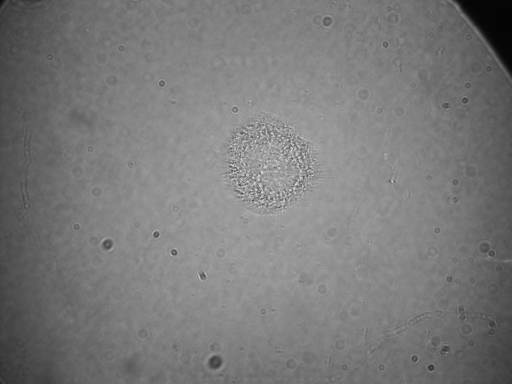
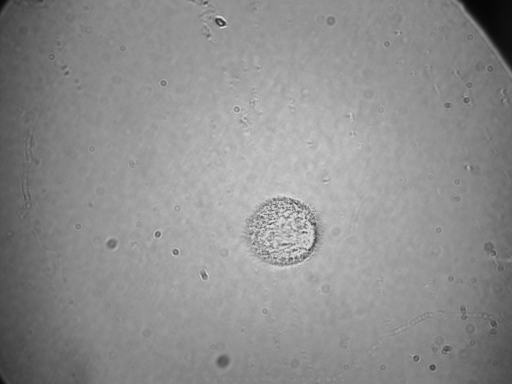
finder works!

diff --git a/CEControl.py b/CEControl.py
@@ -955,7 +955,7 @@ class SequenceScreenController:
 class RunScreenController:
     _stop = threading.Event()
     _update_delay = 0.125
-    _pixel2um = 1
+    _pixel2um = 0.48
     _calibrating_ratio = False
     _setting_laser = False
     _first_calibration_point = None
@@ -1591,6 +1591,13 @@ class RunScreenController:
             attempts += 1
 
     def find_cell(self):
+        def adjust_laser(cell_n):
+            x1 = cell_n[0] - self._laser_position[0]
+            y1 = cell_n[1] - self._laser_position[1]
+            x2 = cell_n[2] - self._laser_position[0]
+            y2 = cell_n[3] - self._laser_position[1]
+            return [x1, y1, x2, y2]
+
         # if not self.hardware.hasCameraControl or not self.hardware.hasXYControl:
         #     return None
         # else:
@@ -1621,18 +1628,21 @@ class RunScreenController:
 
             cell_boxes, score = cell_data  # cell_boxes are in format [xmin, ymin, xmax, ymax]
 
+            adjusted_cell_boxes = []
             if self._laser_position is not None:
-                cell_boxes[:, 0:2] -= self._laser_position
-                cell_boxes[:, 2:4] -= self._laser_position
+                for cell in cell_boxes:
+                    new_cell = adjust_laser(cell)
+                    adjusted_cell_boxes.append(new_cell)
+                cell_boxes = adjusted_cell_boxes
 
-            cell_boxes *= self._pixel2um
+            cell_boxes = [[float(y) * float(self._pixel2um) for y in x] for x in cell_boxes]
             logging.info(cell_boxes)
 
             for cell in cell_boxes:
                 cell_radius = np.sqrt(((cell[2]-cell[0])/2)**2 + ((cell[3]-cell[1])/2)**2)
                 centroid = [(cell[2]-cell[0])/2 + cell[0], (cell[3]-cell[1])/2 + cell[1], cell_radius]
                 # self.screen.live_feed_scene.draw_circle(centroid, single=True)
-                self.screen.live_feed_scene.draw_rect(cell, single=True)
+                # self.screen.live_feed_scene.draw_rect(cell, single=True)
                 for other_cell in cell_boxes:
                     if other_cell != cell:
                         other_cell_radius = np.sqrt(((other_cell[2]-other_cell[0])/2)**2 + ((other_cell[3]-other_cell[1])/2)**2)
@@ -1644,6 +1654,8 @@ class RunScreenController:
                             break
                 else:
                     logging.info(cell)
+                    logging.info(centroid)
+                    self.hardware.set_xy(rel_xy=[centroid[1], -centroid[0]])
                     return cell
 
             return True

diff --git a/hardware/ImageControl.py b/hardware/ImageControl.py
@@ -95,7 +95,7 @@ class ImageControl:
             img = img.view(dtype=np.uint8).reshape(ims[0], ims[1], 4)[..., 2::-1]  # img = np.float32(img)
             img = cv2.resize(img, (0, 0), fx=0.25, fy=0.25)
             img = cv2.cvtColor(img, cv2.COLOR_BGR2GRAY)
-            # img = self.image_conversion(img)
+            # img = cv2.equalizeHist(img)
 
             try:
                 img = pilImage.fromarray(img, 'L')
